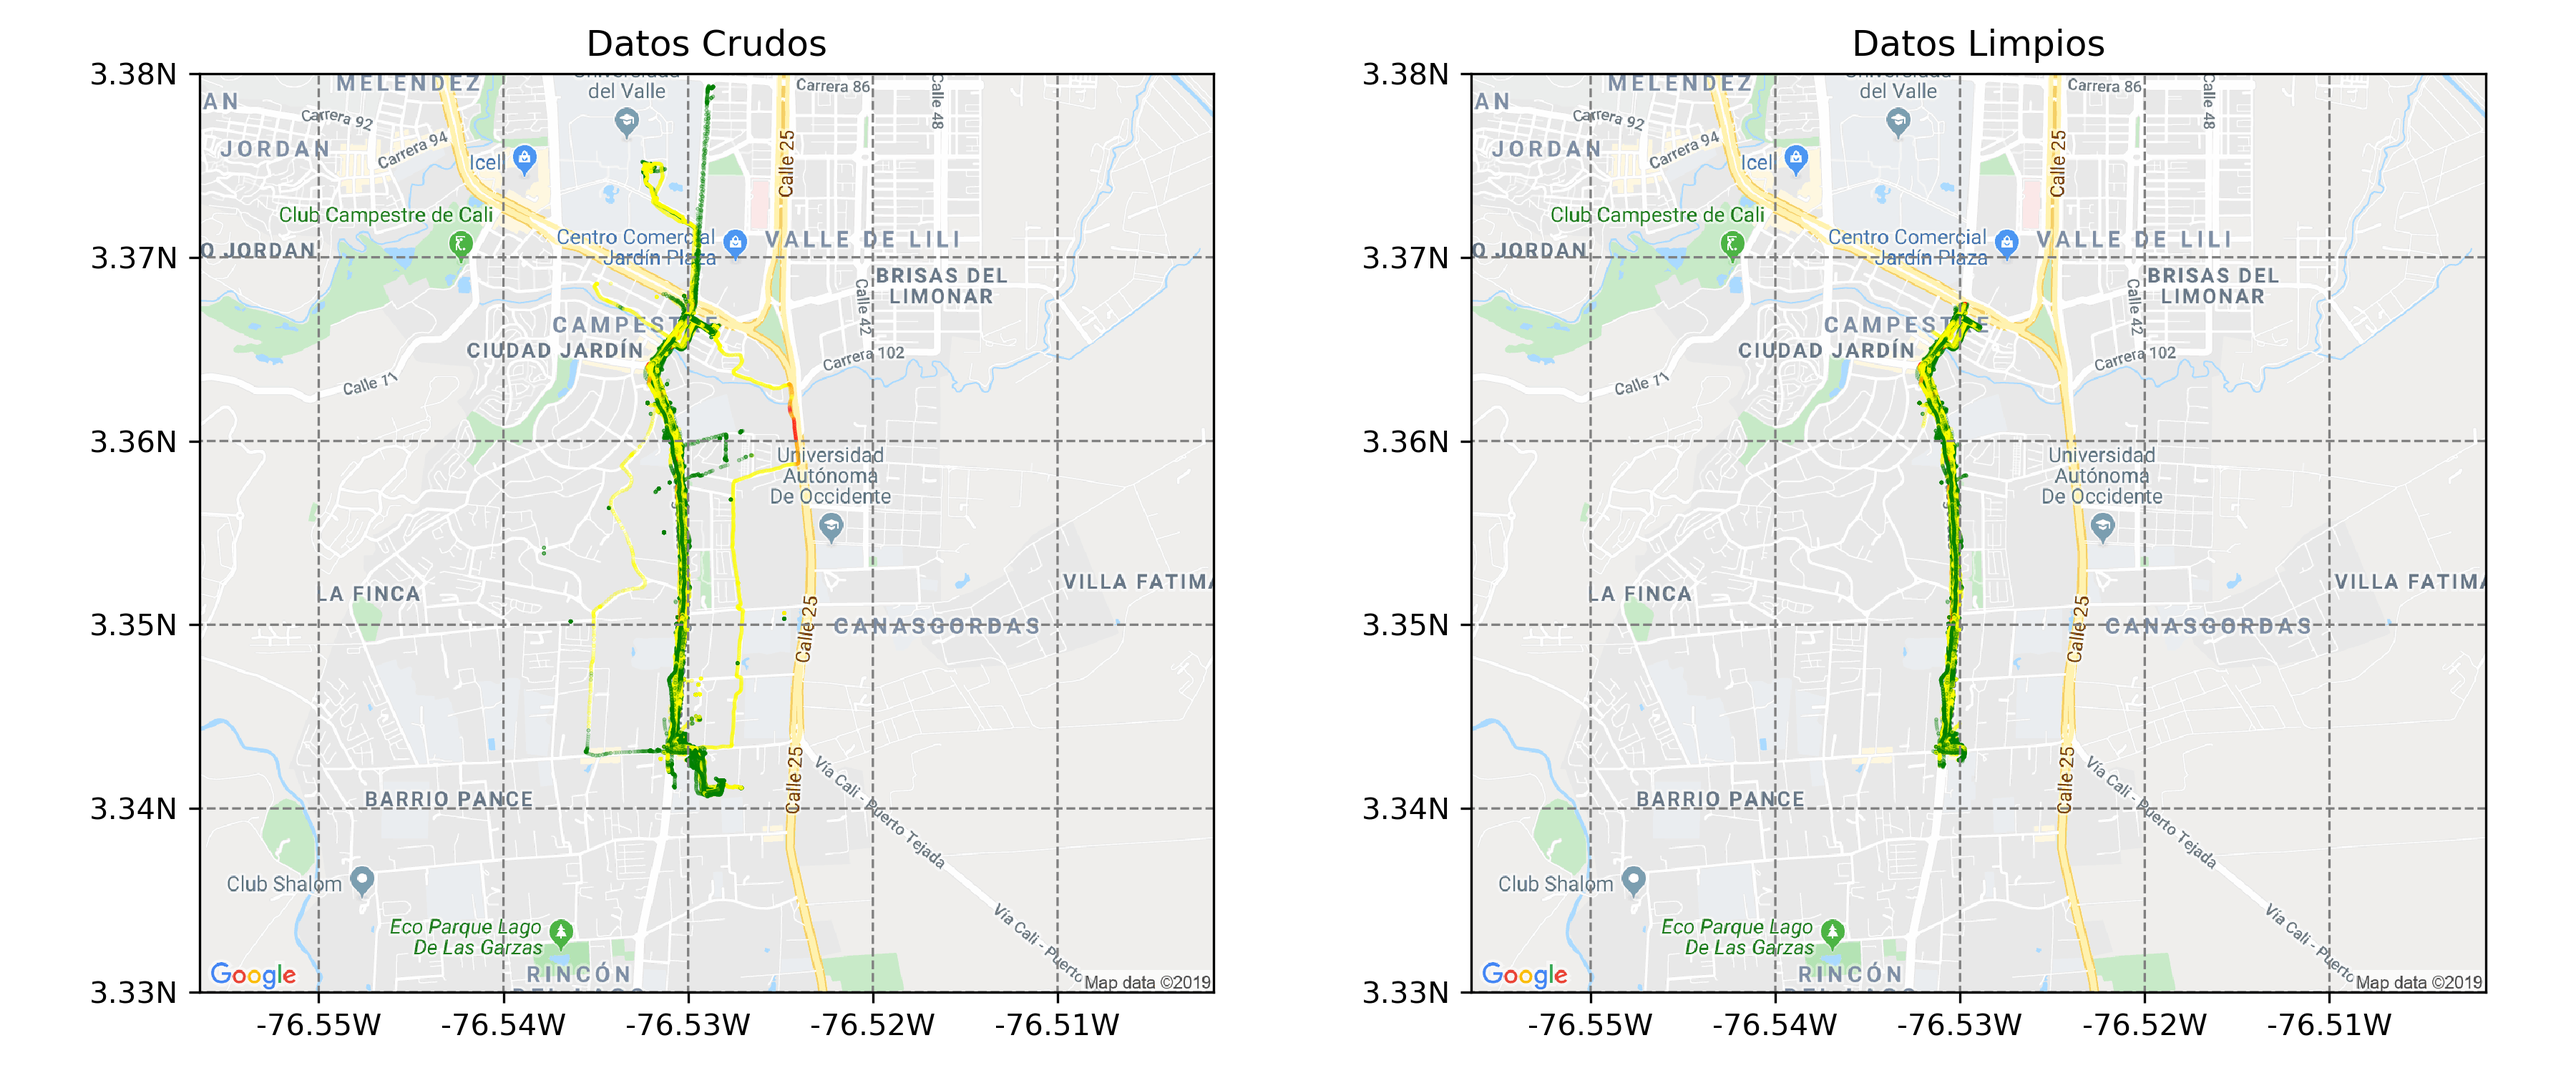
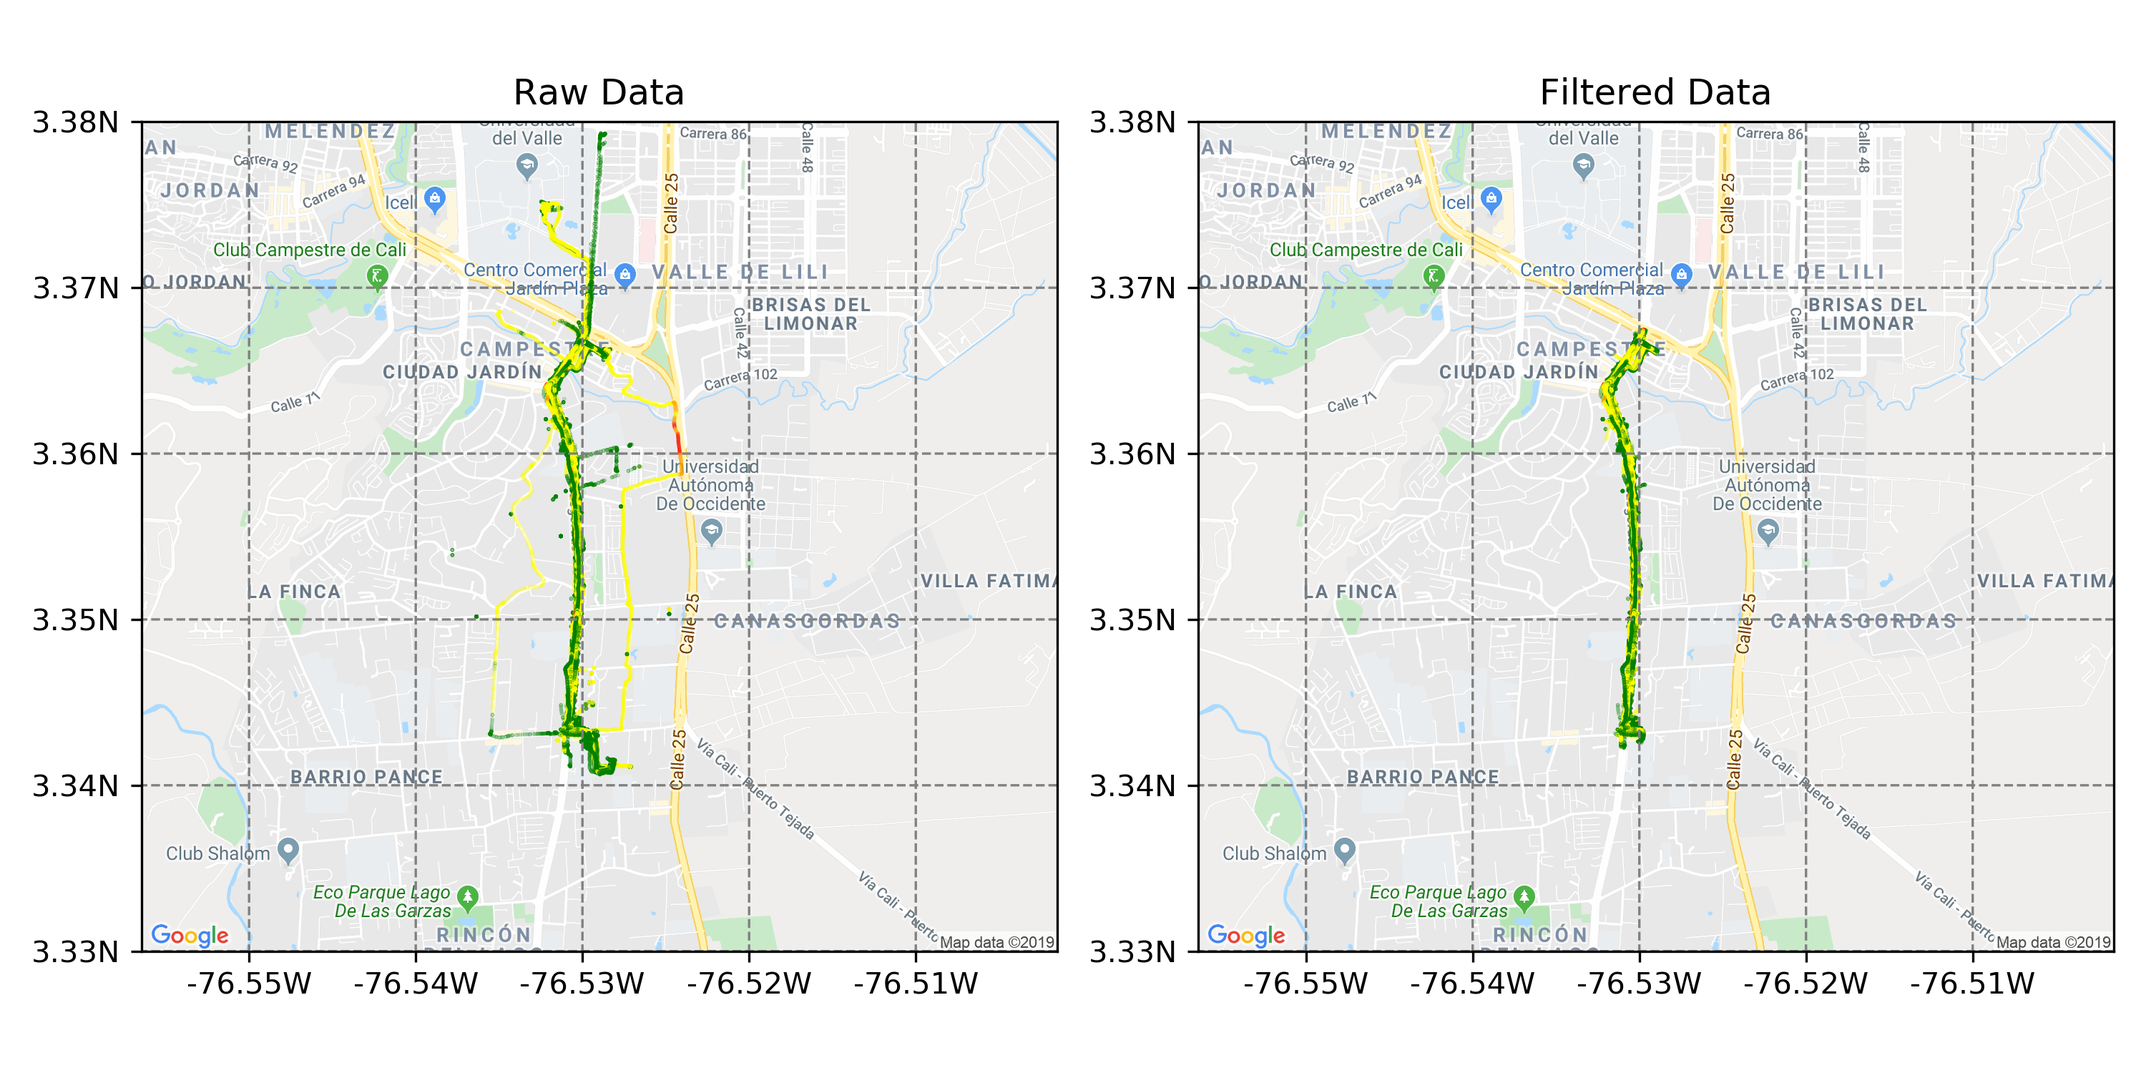
changes to images

diff --git a/procesamiento_final/analisis/fijo/boxplot.py b/procesamiento_final/analisis/fijo/boxplot.py
@@ -14,10 +14,10 @@ DE MAS). SE ESTAN SALTANDO 9 LINEAS DEL CSV.
 
 """
 
-days = ['Lunes', 'Martes', 'Miércoles', 'Jueves', 'Viernes', 'Sábado', 'Domingo']
+days = ['Monday', 'Tuesday', 'Wednesday', 'Thursday', 'Friday', 'Saturday', 'Sunday']
 # series = read_csv('DMR.csv', parse_dates=True, skiprows=1,
 #                   names=['Sesion', 'Timestamp', 'Latitud', 'Longitud', 'PM2.5'])
-sesion = 'KOM'
+sesion = 'DMR'
 series = pd.read_csv("../../datos/fijo/" + sesion + ".csv", parse_dates=True)
 series['Timestamp'] = pd.to_datetime(series['Timestamp'])
 # series['time'] = series['time'] - timedelta(hours=1)
@@ -32,12 +32,13 @@ for name, group in groups:
     day['Hora'] = day['time'].dt.hour
     print(days[name] + ':', day)
     pyplot.grid(True)
-    ax = sns.boxplot(x="Hora", y="PM2.5", data=day, showmeans=True).set_title('F-'+sesion+' - Cajas: ' + days[name])
+    day['Hour']=day['Hora']
+    ax = sns.boxplot(x="Hour", y="PM2.5", data=day, showmeans=True).set_title('F-'+sesion+' - Boxplot: ' + days[name])
 
     pyplot.savefig('./graficos/' + sesion+'_cajas_' + days[name] + '.png', dpi=300)
     pyplot.show()
 
-    ax = sns.distplot(day['PM2.5'].dropna(), hist_kws=dict(edgecolor="k", linewidth=2)).set_title('F-'+sesion+' - Histograma: ' + days[name])
+    ax = sns.distplot(day['PM2.5'].dropna(), hist_kws=dict(edgecolor="k", linewidth=2)).set_title('F-'+sesion+' - Histogram: ' + days[name])
     pyplot.savefig('./graficos/' + sesion+'_histograma_' + days[name] + '.png', dpi=300)
     pyplot.show()
 

diff --git a/procesamiento_final/analisis/movil/index_centros_promedios.py b/procesamiento_final/analisis/movil/index_centros_promedios.py
@@ -12,13 +12,13 @@ import geopy.distance
 def color(val):
     # print(val)
     if val <= 12:
-        return 'green'
+        return 'lightgreen'
     elif val > 12 and val <= 35:
-        return 'yellow'
+        return 'wheat'
     elif val > 35 and val < 55:
-        return 'orange'
+        return 'salmon'
     else:
-        return 'red'
+        return 'tomato'
 
 
 def mean_pm(x):
@@ -81,11 +81,11 @@ groups = centers.where(centers['Modo'] == tipo).groupby('Indice_Corregido')
 # ax.scatter(x, y, s=200,c='white',edgecolors='black', alpha=1)
 for name, group in groups:
     mean=mean_pm(group['PM2.5'])
-    bbox_props = dict(boxstyle="circle,pad=0.3", fc=color(mean), ec="black", lw=0.5)
+    bbox_props = dict(boxstyle="circle,pad=0.3", fc=color(mean), ec="black", lw=2)
     x,y=sm.grid.transform(group['Longitud_Centro'].values[0], group['Latitud_Centro'].values[0])
     ax.text(x, y, mean, ha="center", va="center",
             size=8,
-            bbox=bbox_props)
+            bbox=bbox_props ,weight="bold")
 
 # x, y = sm.grid.transform(x, y)
 # for i, txt in enumerate(n):

diff --git a/procesamiento_final/analisis/movil/graficos_mapa2.py b/procesamiento_final/analisis/movil/graficos_mapa2.py
@@ -42,7 +42,7 @@ g = GoogleVisibleMap(x=[-76.533, -76.525], y=[3.340, 3.375],
                      scale=2,  # scale is for more details
                      maptype='roadmap')
 
-f, ax = plt.subplots(1,2, figsize=(5, 5))
+f, ax = plt.subplots(1,2, figsize=(10, 5))
 ggl_img = g.get_vardata()
 
 sm = Map(g.grid, factor=1, countries=False)
@@ -52,8 +52,8 @@ sm.visualize(ax=ax[0])
 sm2 = Map(g.grid, factor=1, countries=False)
 sm2.set_rgb(ggl_img)
 sm2.visualize(ax=ax[1])
-ax[0].set_title('Datos Crudos')
-ax[1].set_title('Datos Limpios')
+ax[0].set_title('Raw Data')
+ax[1].set_title('Filtered Data')
 
 full_size=len(full.index)
 cleaned_size=len(cleaned.index)
